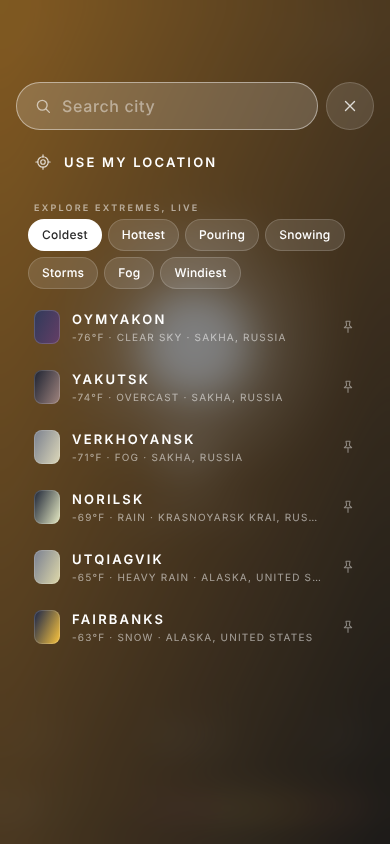
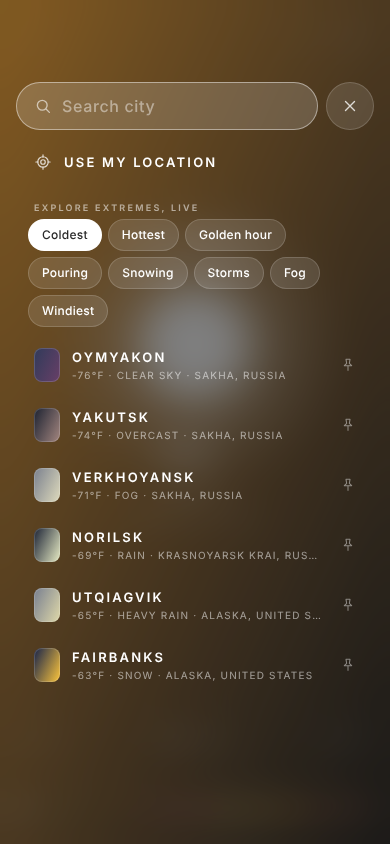
Explore: golden hour theme
Lists the places where the sun is between 4° below and 6° above the
horizon right now, closest to 1° up first, with sunrise or sunset and
the sun's height. The sun position is worked out from each place's
coordinates and the current time, so it needs no extra API data. The
dice can now land on golden hour too.

Claude-Session: https://claude.ai/code/session_01B7qqqCqs2C4aXe1GAGgPG7

diff --git a/js/explore.js b/js/explore.js
@@ -99,6 +99,13 @@ export const THEMES = [
     score: p => -p.now.temp },
   { id: 'hot', name: 'Hottest', empty: '',
     score: p => p.now.temp },
+  { id: 'golden', name: 'Golden hour', empty: 'No city on the list is at golden hour right now',
+    // sun from 4° below to 6° above the horizon, best around 1° up
+    score: p => (p.sun.elevation >= -4 && p.sun.elevation <= 6 ? -Math.abs(p.sun.elevation - 1) : null),
+    detail: p => {
+      const e = Math.round(p.sun.elevation);
+      return `${p.sun.rising ? 'Sunrise' : 'Sunset'} · sun ${Math.abs(e)}° ${e < 0 ? 'below' : 'up'}`;
+    } },
   { id: 'rain', name: 'Pouring', empty: 'No heavy rain on the list right now',
     score: p => (p.levels.rain >= 2 && p.levels.rain >= p.levels.snow ? p.levels.rain * 100 + num(p.now.data.rain) : null),
     detail: p => (p.now.data.rain > 0 ? `${p.now.data.rain.toFixed(1)} mm/h` : '') },
@@ -125,11 +132,29 @@ export function rank(themeId, now, count = 6) {
       if (!now[i]) return null;
       const n = now[i].now;
       const { label, levels } = getCondition(n.code, n.wind, n.data);
-      const p = { ...place, now: n, offset: now[i].offset, condition: label, levels };
+      const sun = sunAt(place.lat, place.lon, n.time ? n.time * 1000 : Date.now());
+      const p = { ...place, now: n, offset: now[i].offset, condition: label, levels, sun };
       const score = theme.score(p);
       return score === null || !Number.isFinite(score) ? null : { ...p, score, detail: theme.detail?.(p) || '' };
     })
     .filter(Boolean)
     .sort((a, b) => b.score - a.score)
     .slice(0, count);
+}
+
+/* Sun height above the horizon (degrees) and whether it's rising,
+   from the usual low-precision solar position formulas (~0.5° accuracy) */
+export function sunAt(lat, lon, ms) {
+  const rad = Math.PI / 180;
+  const d = (ms - 946728000000) / 86400000; // days since J2000 (2000-01-01 12:00 UTC)
+  const g = (357.529 + 0.98560028 * d) * rad;            // mean anomaly
+  const q = 280.459 + 0.98564736 * d;                    // mean longitude
+  const L = (q + 1.915 * Math.sin(g) + 0.02 * Math.sin(2 * g)) * rad; // ecliptic longitude
+  const e = (23.439 - 0.00000036 * d) * rad;             // axial tilt
+  const ra = Math.atan2(Math.cos(e) * Math.sin(L), Math.cos(L)) / rad;
+  const dec = Math.asin(Math.sin(e) * Math.sin(L));
+  const gmst = 18.697374558 + 24.06570982441908 * d;     // sidereal time, hours
+  const ha = (gmst * 15 + lon - ra) * rad;               // local hour angle
+  const elevation = Math.asin(Math.sin(lat * rad) * Math.sin(dec) + Math.cos(lat * rad) * Math.cos(dec) * Math.cos(ha)) / rad;
+  return { elevation, rising: Math.sin(ha) < 0 }; // before local noon the hour angle is negative
 }

diff --git a/sw.js b/sw.js
@@ -4,7 +4,7 @@
  * Fonts: cache first, refreshed in the background (they never change).
  * Weather API: network first, last response as offline fallback.
  */
-const VERSION = 'huecast-v3.16.1';
+const VERSION = 'huecast-v3.17.0';
 const SHELL = [
   './',
   'index.html',
